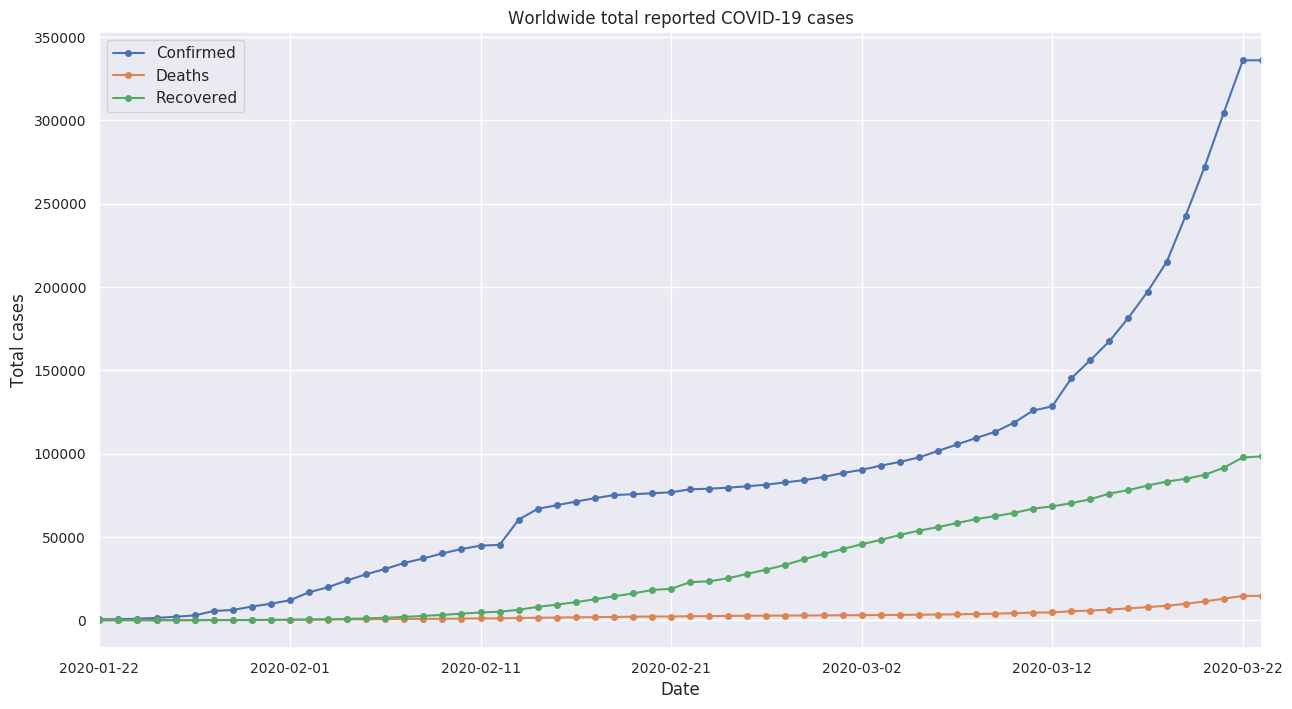
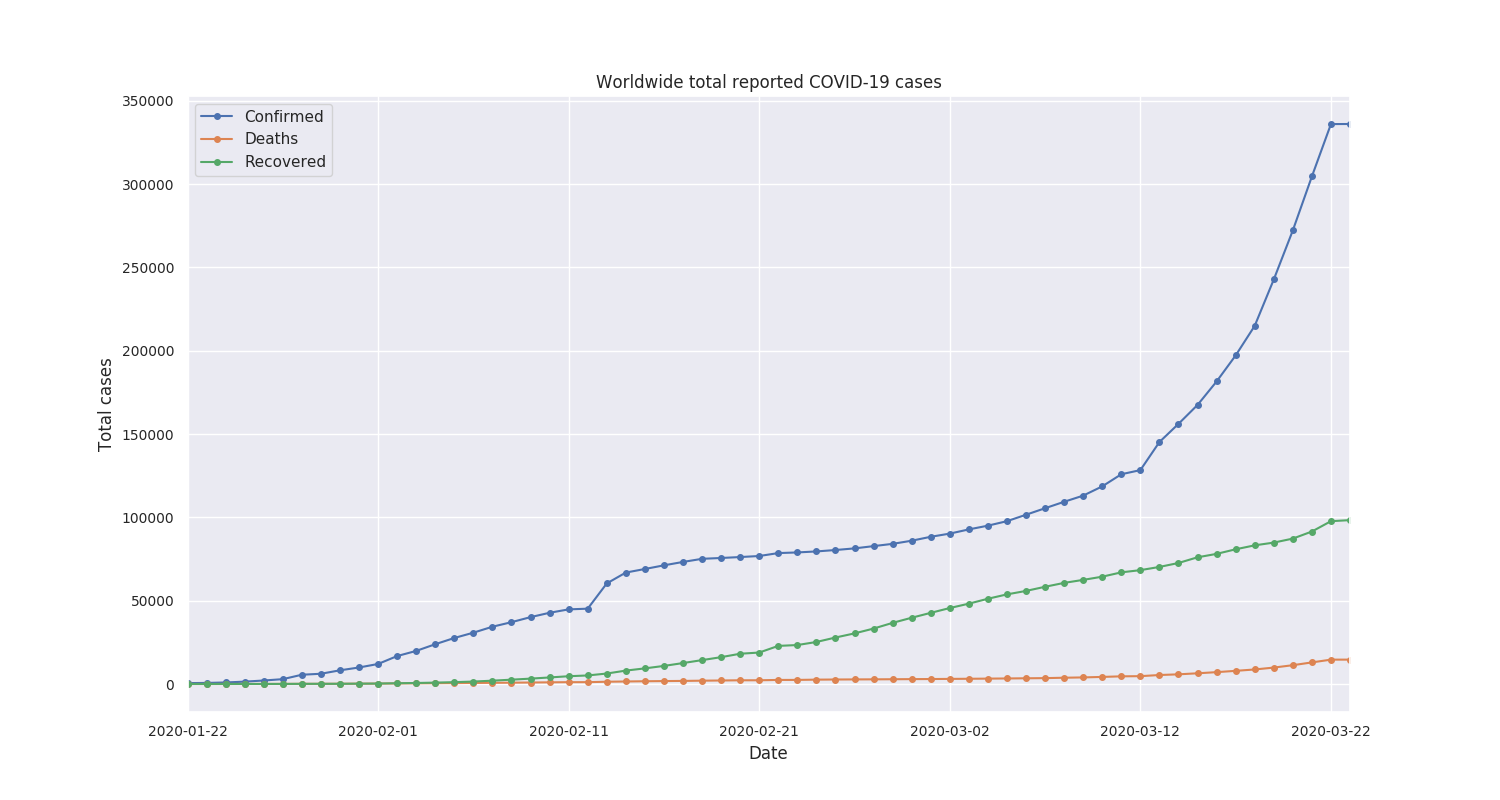
Update figure

diff --git a/process/plot_timeseries.py b/process/plot_timeseries.py
@@ -26,5 +26,5 @@ ax.set_title('Worldwide total reported COVID-19 cases')
 ax.set_xlabel("Date")
 ax.set_ylabel("Total cases")
 
-fig.savefig('../docs/images/worldwide_total_cases.png', bbox_inches='tight')
+fig.savefig('../docs/images/worldwide_total_cases.png')
 plt.show()
